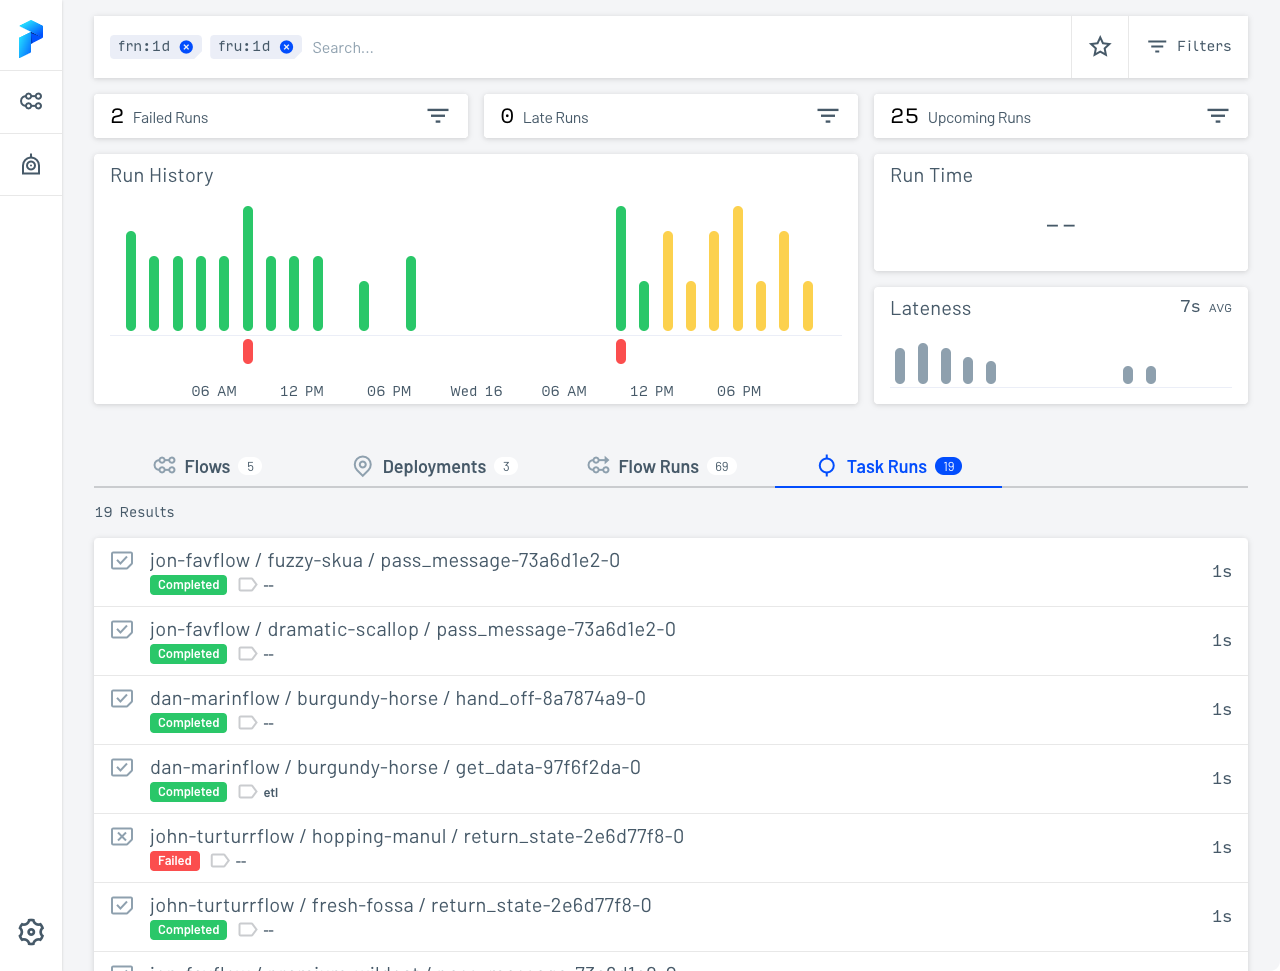
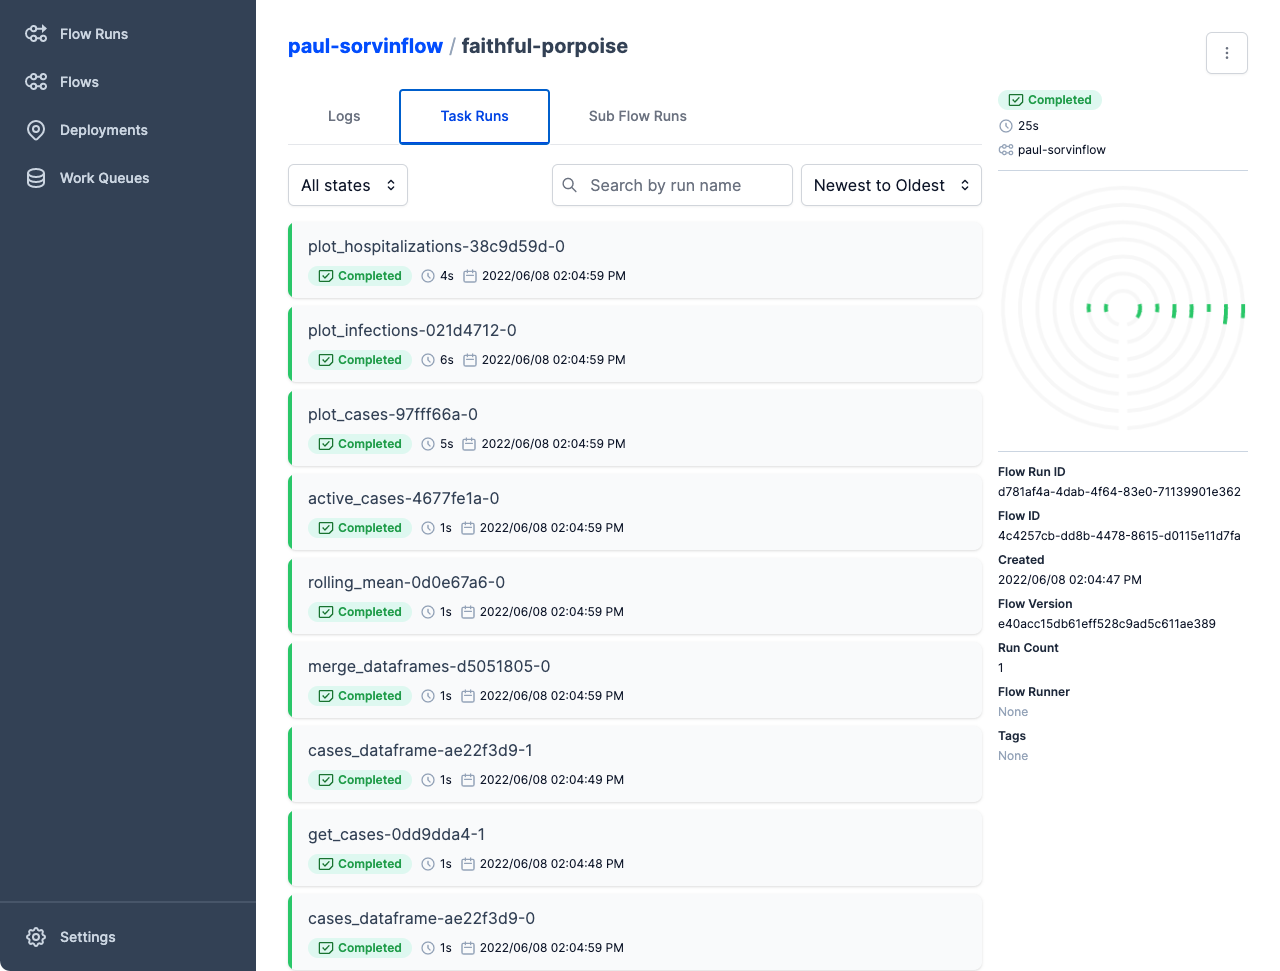
Update flow and task runs

diff --git a/docs/ui/flows-and-tasks.md b/docs/ui/flows-and-tasks.md
@@ -1,12 +1,11 @@
 ---
-description: Work with flows, deployments, and tasks in the Prefect UI and Prefect Cloud.
+description: Work with flows and flow runs in the Prefect UI and Prefect Cloud.
 tags:
     - Orion
     - UI
     - flows
     - tasks
     - flow runs
-    - deployments
     - logging
     - Prefect Cloud
 ---
@@ -15,56 +14,78 @@ tags:
 
 The bottom area of the Prefect UI dashboard displays details about your flow and task runs.
 
-![Prefect Orion UI dashboard.](/img/ui/orion-dash-details.png)
+![Prefect UI dashboard.](/img/ui/orion-dash-details.png)
 
-The default view shows all flows observed by the Orion API server. You can also see:
+The default view shows all flow runs observed by the Prefect API and scheduled flow runs for deployments. You can use filters to display only the flow runs that meet your filter criteria, such as status or tags.
 
-- Deployments
-- [Flow runs](#flow-runs)
-- [Task runs](#task-runs)
+## Flow run details
 
-## Flow runs
+Each row in the flow run details shows information about a specific completed, in progress, or scheduled flow run.
 
-On the dashboard, click **Flow Runs** to see a listing of recent runs. Flow runs are listed by flow name and flow run name.
+![Information displayed for a flow run in the UI](/img/ui/orion-flow-run-examples.png)
 
-You can use [Filters](/ui/filters/) to display only the flow runs that meet your filter criteria.
+For each flow run listed, you'll see:
 
-![Flow runs page list recent flow runs.](/img/ui/orion-flow-runs.png)
+- Flow name
+- Flow run name
+- Tags on the deployment, flow, or tasks within the flow
+- [State](/concepts/states/) of the flow run
+- Scheduled or actual start time for the flow run
+- Elapsed run time for completed flow runs
+- Number of completed task runs for the flow
 
-Click on a flow run name to display details for a specific flow run. 
+You can see additional details about the flow by [selecting the flow name](#inspect-a-flow). You can see detail about the flow run by [selecting the flow run name](#inspect-a-flow-run).
+
+## Inspect a flow
+
+If you select the name of a flow in the dashboard, the UI displays details about the flow.
+
+![Details for a flow in the Prefect UI](/img/ui/orion-flow-details.png)
+
+If deployments have been created for the flow, you'll see them here. Select the deployment name to see further details about the deployment.
+
+On this page you can also:
+
+- Copy the ID of the flow or delete the flow from the API by using the command button to the right of the flow name. Note that this does not delete your flow code. It only removes any record of the flow from the Prefect API.
+- Pause a schedule for a deployment by using the slider control.
+- Copy the ID of the deployment or delete the deployment by using the command button to the right of the deployment.
+
+## Inspect a flow run
+
+If you select the name of a flow run in the dashboard, the UI displays details about that specific flow run.
 
 ![Display details for a specific flow run.](/img/ui/orion-flow-run-details.png)
 
 You can see details about the flow run including:
 
+- Flow and flow run names
 - State
+- Elapsed run time
+- Flow and flow run IDs
+- Timestamp of flow run creation (time of flow run for ad-hoc flow runs, or time when the deployment was created or updated for scheduled deployments)
+- Flow version
+- Run count
+- [Flow runner](/concepts/flow-runners/) used by the flow run
 - Tags
-- Start and end times and elapsed time
-- Version
-- Timeline of task and subflow runs
+- Logs
 - Task runs
 - Subflow runs
-- Logs
 - [Radar](#radar-view) view of the flow run
 
-Click **Task Runs** to see the task run details for the flow run.
+**Logs** displays all log messages for the flow run. See [Logging](/concepts/logs/) for more information about configuring and customizing log messages. Logs are the default view for a flow run.
 
-Click **Subflow Runs** to see any subflows for the flow run.
-
-Click **Logs** to see log messages for the flow run. See [Logging](/concepts/logs/) for more information about configuring and customizing log messages.
-
-![Display logs for a specific flow run.](/img/ui/orion-flow-run-logs.png)
-
-## Task runs
-
-On the dashboard, click **Task Runs** to see a listing of recent task runs. Task runs are listed by flow name, flow run name, and task run name.
-
-You can use [Filters](/ui/filters/) to display only the task runs that meet your filter criteria.
+**Task Runs** displays a listing of task runs executed within the flow run. Task runs are listed by flow name, flow run name, and task run name.
 
 ![Display all task runs.](/img/ui/orion-task-runs.png)
 
+**Sub Flow Runs** displays any subflows for the flow run.
+
+![Display any subflow runs for the parent flow run.](/img/ui/orion-subflows.png)
+
 ## Radar view
 
-When viewing flow run details, the Radar block shows a simple visualization of the task runs executed within the flow run. Click on the **Radar** block to see a detailed, hierarchical visualization of the task execution paths for the flow run.
+When viewing flow run details, the Radar shows a simple visualization of the task runs executed within the flow run. Click on the **Radar** block to see a detailed, hierarchical visualization of the task execution paths for the flow run.
+
+Zoom zoom out to see the entire flow hierarchy, and zoom in and drag the radar around to see details and connections between tasks. Select any task to focus the view on that task.
 
 ![Radar view of flow and task relationships.](/img/ui/orion-flow-radar.png)

diff --git a/docs/ui/dashboard.md b/docs/ui/dashboard.md
@@ -7,18 +7,17 @@ tags:
     - Prefect Cloud
 ---
 
-# Dashboard
+# Flow Runs Dashboard
 
-The dashboard provides high-level visibility into the status of your flow and task runs. From the dashboard, you can filter results to explore specific run states, scheduled runs, and more. You can drill down into details about: 
+The **Flow Runs** dashboard provides high-level visibility into the status of your flow and task runs. From the dashboard, you can filter results to explore specific run states, scheduled runs, and more. You can drill down into details about: 
 
 - Flows
 - Deployments
 - Flow runs
-- Task runs
 
 When a Prefect API server is running, you can access the UI at [http://127.0.0.1:4200](http://127.0.0.1:4200). If you're running a local server or accessing a server running in a container or cluster, the default initial view is the dashboard.
 
-![Prefect Orion UI dashboard.](/img/ui/orion-dashboard.png)
+![Prefect UI dashboard.](/img/ui/orion-dashboard.png)
 
 The following sections discuss each section of the dashboard view.
 
@@ -28,25 +27,30 @@ The following sections discuss each section of the dashboard view.
 
 ## Filters
 
-The **Filters** area at the top of the dashboard provides controls that enable you to display selected details of flow runs on the dashboard. Filters include flow run state, tags, time, and more. See the [Filters](/ui/filters/) documentation for more information.
+The **Filters** area at the top of the dashboard provides controls that enable you to display selected details of flow runs on the dashboard. Filters include date intervals, flow run state, flow name, deployment name, and tags. 
 
 ![Highlighting the filters section of the dashboard.](/img/ui/orion-dash-filters.png)
 
 ## Run history
 
-The **Run history** area of the dashboard provides an overview of recent flow runs. [Filters](#filters) control the detail of what's shown in the Run history.
+The **run history** area of the dashboard provides an overview of recent flow runs by time and duration of run. [Filters](#filters) control the detail of what's shown in the Run history.
 
 ![Highlighting the run history section of the dashboard.](/img/ui/orion-dash-history.png)
 
 ## Details
 
-The details area of the dashboard provides a listing of:
+The details area of the dashboard provides a listing of flow runs that are scheduled or have attempted to execute. [Filters](#filters) control what's shown in the details section. 
 
-- Flows the server knows about
-- Deployments created with the server
-- Flow runs that are scheduled or have attempted to execute
-- Task runs created by flows runs
+Each listed flow run shows: 
 
-[Filters](#filters) control what's shown in the details section. See the [Flows and Tasks](/ui/flows-and-tasks/) documentation for more information.
+- Flow name
+- Flow run name
+- Flow run state
+- Actual or scheduled time of execution
+- Tags
+- Elapsed execution time (completed flow runs)
+- Completed task runs (completed flow runs)
+
+You can select any flow name or flow run name on the list to display further details. See the [Flows and Tasks](/ui/flows-and-tasks/) documentation for more information.
 
 ![Highlighting the details section of the dashboard.](/img/ui/orion-dash-details.png)

diff --git a/docs/ui/overview.md b/docs/ui/overview.md
@@ -52,13 +52,13 @@ Check out the dashboard at http://127.0.0.1:4200
 
 When the Prefect API server is running, you can access the UI at [http://127.0.0.1:4200](http://127.0.0.1:4200).
 
-![Prefect Orion UI dashboard.](/img/ui/orion-dashboard.png)
+![Prefect UI dashboard.](/img/ui/orion-dashboard.png)
 
 The following sections provide details about Prefect UI pages and visualizations:
 
 - [Flow Runs](/ui/dashboard/) dashboard provides a high-level overview of your flows, tasks, and deployments.
 - [Flow and flow run](/ui/flows-and-tasks/) pages let you dig into details of flow runs and task runs.
-- [Filters](/ui/filters/) enable you to customize the display based on flow state, tags, execution time, and more.
+- [Filters](/ui/dashboard/#filters) enable you to customize the display based on flow state, tags, execution time, and more.
 - [Flows](/ui/flows/) provides an overview of specific flows tracked by by the API.
 - [Deployments](/ui/deployments/) provides an overview of flow deployments that you've created on the API.
 - [Work Queues](/ui/work-queues/) enable you to create and manage work queues that distribute flow runs to agents.
@@ -69,7 +69,7 @@ The left side of the Prefect UI provides commands to help you navigate to common
 
 | Command | Description |
 | --- | --- |
-| **Flow Runs**   | Displays the **Flow Runs** dashboard displaying flow run status for the current API server or Prefect Cloud workspace. From this dashboard you can create [filters](/ui/filters/) to display only certain flow runs, or click into details about specific flows or flow runs. |
+| **Flow Runs**   | Displays the **Flow Runs** dashboard displaying flow run status for the current API server or Prefect Cloud workspace. From this dashboard you can create filters](/ui/dashboard/#filters) to display only certain flow runs, or click into details about specific flows or flow runs. |
 | **Flows**       | Displays a searchable list of flows tracked by the API. |
 | **Deployment**  | Displays flow [deployments](/concepts/deployments/) created on the API. |
 | <span class="no-wrap">**Work Queues**</span> | Displays configured [work queues](/ui/work-queues/) and enables creating new work queues. |